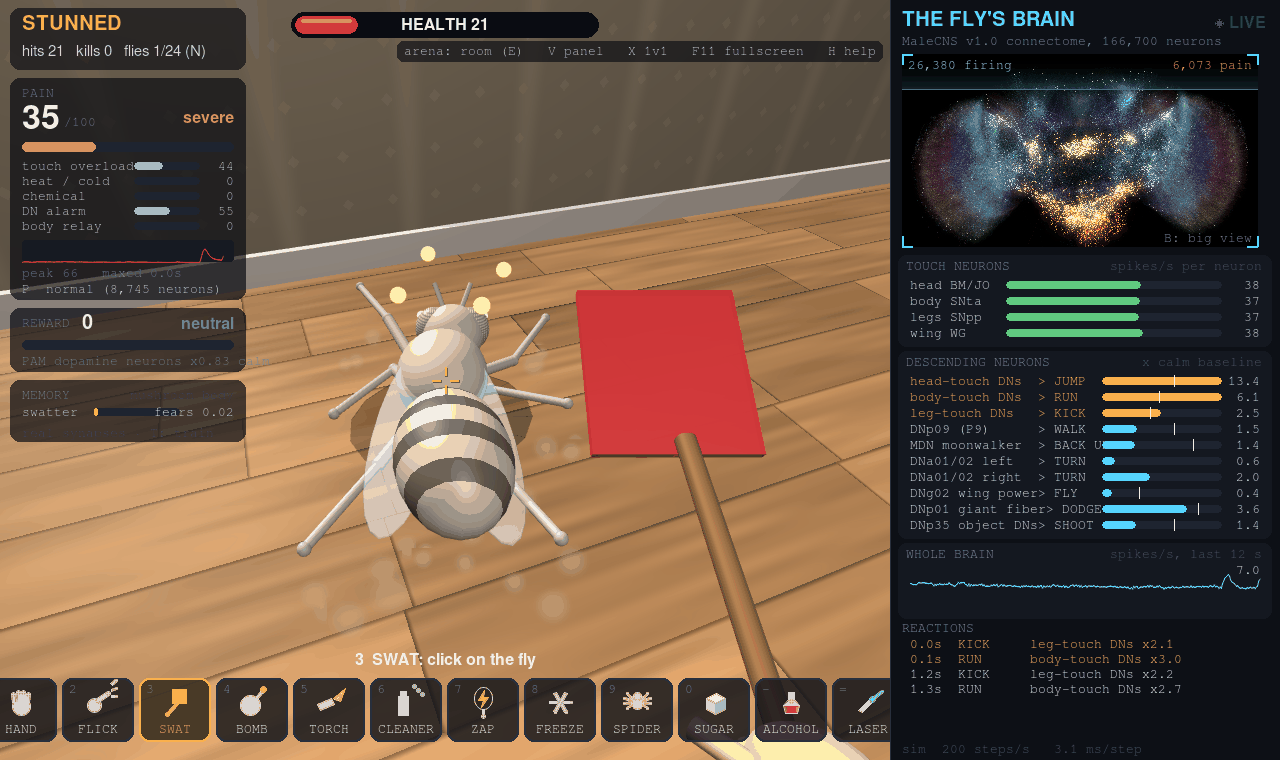
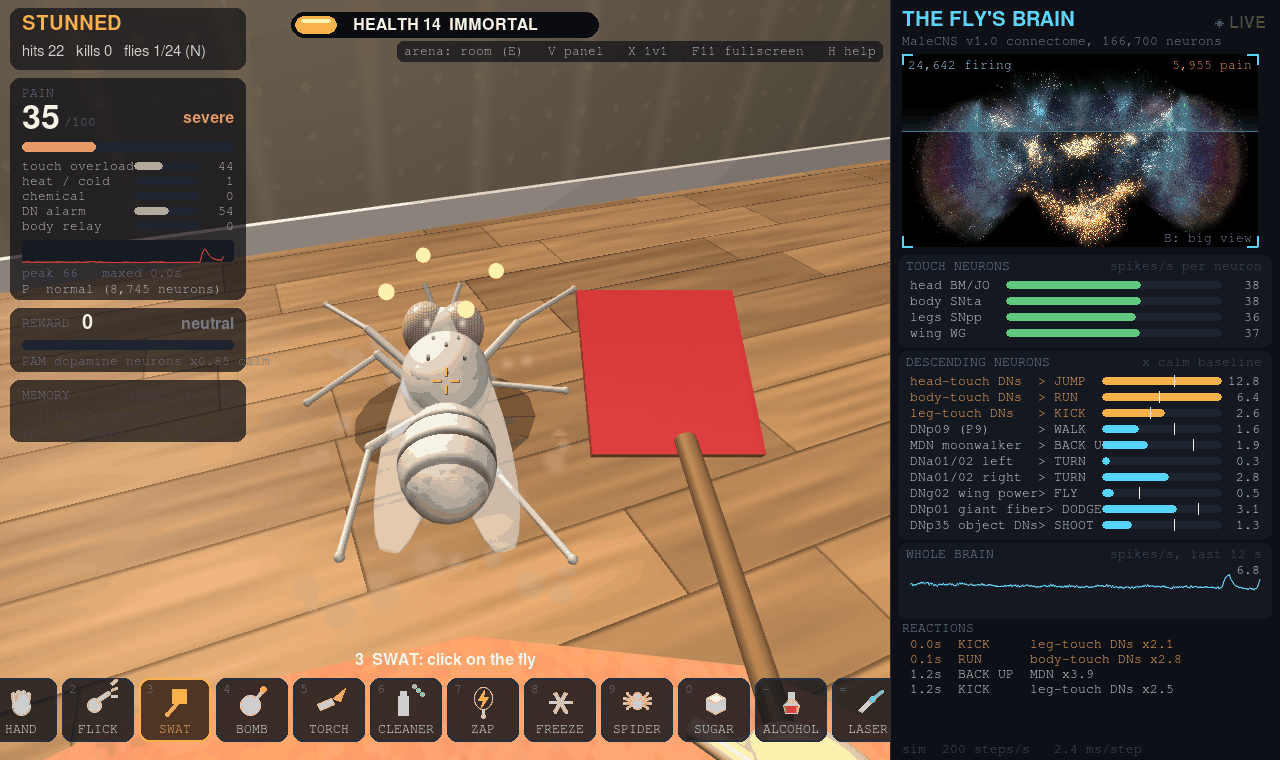
fix(3d): make the fly look like a fruit fly instead of a bee
Big red eyes filling most of the head, a pale yellow-tan body instead of honey gold, a shorter abdomen tapering to a
dark tip, bands only across the top of each segment (fading out underneath and at the tip) instead of wasp bands
wrapped right around, bristles, a scutellum, thinner legs and clearer wings. Drawing only: the simulation, physics and
hit detection are untouched.

Every README screenshot and the demo GIF regenerated; tools/make_screenshots.py gains a `portrait` scene for checking
the model close up, and leaves it (and the demo) out of the default set.

The orchard feeding test now seeds the random generators and puts the fly in a known state beside a ripe fruit: the
tests before it in that module run for a wall-clock duration, so the fly's state and the random stream shifted with
machine load and it failed about half the time in a full run.

diff --git a/kickthefly/game/kick3d.py b/kickthefly/game/kick3d.py
@@ -2337,20 +2337,27 @@ class Game3D(k2.Game):
         fa = p[THX] - p[ABD]
         fa = fa / (np.linalg.norm(fa) or 1)
         Ra = np.stack([fa, np.cross(side, fa), side], 1)
-        leg_col = col((86, 58, 26))
+        leg_col = col((132, 95, 50))
         for k in range(6):
             sgn = 1 if k < 3 else -1
             hip = p[THX] + fwd * (14 - 12 * (k % 3)) * S - up * 10 * S + side * sgn * 8 * S
-            rd.add("cylinder", segment(hip, p[KNEE[k]], 2.6 * S), leg_col)
-            rd.add("sphere", trs(p[KNEE[k]], None, (2.7 * S,) * 3), leg_col)
-            rd.add("cylinder", segment(p[KNEE[k]], p[FOOT[k]], 1.8 * S), leg_col)
-            rd.add("sphere", trs(p[FOOT[k]], None, (2.4 * S,) * 3), col((60, 40, 18)))
-        rd.add("sphere", trs(p[ABD], Ra, (30 * S * k_, 21 * S * k_, 21 * S * k_)), col((176, 116, 44)), P_STRIPES)
-        rd.add("sphere", trs(p[THX], Rb, (23 * S * k_, 19 * S * k_, 19 * S * k_)), col((156, 102, 40)))
-        rd.add("sphere", trs(p[HEAD], Rb, (15 * S * k_,) * 3), col((146, 96, 38)))
+            rd.add("cylinder", segment(hip, p[KNEE[k]], 2.0 * S), leg_col)
+            rd.add("sphere", trs(p[KNEE[k]], None, (2.1 * S,) * 3), leg_col)
+            rd.add("cylinder", segment(p[KNEE[k]], p[FOOT[k]], 1.3 * S), leg_col)
+            rd.add("sphere", trs(p[FOOT[k]], None, (1.8 * S,) * 3), col((96, 66, 32)))
+        # Drosophila melanogaster, not a bee: a pale yellow-tan body, a short abdomen tapering to a dark tip with
+        # bands only across the top of each segment (the shader's P_STRIPES), and eyes that fill most of the head.
+        abd_l, abd_r = 24 * S * k_, 17.5 * S * k_
+        rd.add("sphere", trs(p[ABD], Ra, (abd_l, abd_r, abd_r)), col((206, 172, 104)), P_STRIPES)
+        rd.add("sphere", trs(p[ABD] - fa * abd_l * 0.52, Ra, (abd_l * 0.42, abd_r * 0.78, abd_r * 0.78)),
+               col((96, 70, 38)))                                    # the tapered, dark tip
+        rd.add("sphere", trs(p[THX], Rb, (23 * S * k_, 19.5 * S * k_, 19 * S * k_)), col((176, 146, 92)))
+        rd.add("sphere", trs(p[THX] - fwd * 6 * S + up * 9 * S, Rb, (13 * S * k_, 7 * S * k_, 15 * S * k_)),
+               col((150, 120, 74)))                                  # the scutellum behind the wing bases
+        rd.add("sphere", trs(p[HEAD], Rb, (13 * S * k_, 14 * S * k_, 15 * S * k_)), col((186, 154, 96)))
         for sgn in (1, -1):
-            eye = p[HEAD] + fwd * 3 * S + up * 2 * S + side * sgn * 9 * S * k_
-            rd.add("sphere", trs(eye, Rb, (8 * S * k_, 11 * S * k_, 9 * S * k_)), col((196, 30, 26)), P_EYE)
+            eye = p[HEAD] + fwd * 1.5 * S + up * 2.5 * S + side * sgn * 8.5 * S * k_
+            rd.add("sphere", trs(eye, Rb, (12 * S * k_, 14 * S * k_, 11.5 * S * k_)), col((222, 44, 30)), P_EYE)
             if dead:
                 for a in (0.8, -0.8):
                     rd.add("cube", trs(eye + side * sgn * 8 * S, Rb @ rot_z(a), (18 * S, 3 * S, 3 * S)), (0.12, 0.08, 0.08))
@@ -2359,6 +2366,15 @@ class Game3D(k2.Game):
             a0 = p[HEAD] + fwd * 11 * S + up * 8 * S + side * sgn * 4 * S
             rd.add("cylinder", segment(a0, a0 + fwd * 10 * S + up * 10 * S + side * sgn * 5 * S, 1.2 * S), col((70, 45, 20)))
         rd.add("cylinder", segment(p[HEAD] + fwd * 8 * S - up * 10 * S, p[HEAD] + fwd * 14 * S - up * 20 * S, 1.8 * S), col((70, 45, 20)))
+        if not fly.wrapped:                     # bristles: a real fly is covered in them, a bee is furry instead
+            bristle = col((74, 52, 28))
+            for bx, by, bs, bl in ((-2, 15, 0, 7), (4, 15, 5, 6), (4, 15, -5, 6), (-8, 13, 7, 7), (-8, 13, -7, 7),
+                                   (-13, 9, 0, 8)):
+                root = p[THX] + fwd * bx * S + up * by * S + side * bs * S * k_
+                rd.add("cylinder", segment(root, root + (up * 0.8 - fwd * 0.6) * bl * S, 0.7 * S), bristle)
+            for sgn in (1, -1):
+                root = p[HEAD] + fwd * 4 * S + up * 9 * S + side * sgn * 4 * S * k_
+                rd.add("cylinder", segment(root, root + (up * 0.9 + fwd * 0.4) * 6 * S, 0.6 * S), bristle)
         flap = not dead and (now < fly.escape_until or (fly.grabbed is not None and random.random() < 0.3))
         for i, sgn in ((0, 1), (1, -1)):
             base = p[THX] + up * 12 * S + side * sgn * 5 * S
@@ -2366,8 +2382,8 @@ class Game3D(k2.Game):
             if flap:
                 tip = base + (tip - base) * 0.8 + up * 38 * S * math.sin(now * 90 + i) + side * sgn * 10 * S
             span = float(np.linalg.norm(tip - base))
-            rd.add("sphere", trs((base + tip) / 2, frame_from_x(tip - base), (span / 2 + 6 * S, 1.2 * S, 13 * S)),
-                   (0.82, 0.87, 0.95, 0.38 if not fly.melt else 0.2), P_NONE, 0.15)
+            rd.add("sphere", trs((base + tip) / 2, frame_from_x(tip - base), (span / 2 + 9 * S, 0.9 * S, 12 * S)),
+                   (0.90, 0.94, 0.99, 0.34 if not fly.melt else 0.18), P_NONE, 0.12)
         if self.duel and not dead and fly is self.fly:             # the blaster, strapped under its head (duelist only)
             muzzle, _ = self._muzzle()
             base = p[THX] + fwd * 10 * S - up * 4 * S

diff --git a/tools/make_screenshots.py b/tools/make_screenshots.py
@@ -1,6 +1,6 @@
 """Regenerate the README screenshots and the demo GIF from the current build, the same way every time.
 
-    python tools/make_screenshots.py                 every scene, into docs/
+    python tools/make_screenshots.py                 every README scene, into docs/ (not demo or portrait)
     python tools/make_screenshots.py duel orchard    only these scenes
     python tools/make_screenshots.py --list          the scenes and what each shows
     python tools/make_screenshots.py demo            the README's animated demo (docs/demo.gif), via the video recorder
@@ -116,7 +116,8 @@ scene("room3d", "The 3D room: first person, with the fly's live brain on the rig
       every=near(1.5, bearing=math.pi / 2 + 0.5, height=1.25), shot_at=5.0)
 
 scene("swat3d", "Swatting in first person: the touch neurons fire and the leg-touch descending neurons kick",
-      steps=[(3.0, lambda g: hold(g, "swatter")), (5.0, lambda g: fire(g)), (6.2, lambda g: fire(g))],
+      steps=[(0.0, lambda g: g.set_setting("brain.immortal", True, save=False)),
+             (3.0, lambda g: hold(g, "swatter")), (5.0, lambda g: fire(g)), (6.2, lambda g: fire(g))],
       every=near(1.05, bearing=math.pi / 2 + 0.35, height=1.0), shot_at=6.45)
 
 scene("flypaper3d", "Stuck on flypaper: it struggles through its own touch and descending neurons",
@@ -284,6 +285,11 @@ scene("escaperoom", "The escape room: fan, flypaper and a hot lamp between the f
       every=lambda g, t: look_at(g, fly_pos(g), 2.2, math.pi / 2 + 0.3, 1.6), shot_at=8.0)
 
 
+scene("portrait", "Close-up of the fly model itself (not used in the README; for checking the model after a change)",
+      steps=[(0.0, lambda g: g.set_setting("brain.immortal", True, save=False))],
+      every=lambda g, t: look_at(g, fly_pos(g), 0.8, math.pi / 2 + 2.6, 0.42), shot_at=6.0)
+
+
 def _demo_every(game, t):
     """~12 s in the open field: walk up, swat it, torch it, and watch it take off, with the brain panel lighting up."""
     fp = fly_pos(game)
@@ -397,7 +403,7 @@ def main() -> int:
         for s in SCENES.values():
             print(f"{s.name:12s} {s.caption}")
         return 0
-    names = args.scenes or [n for n in SCENES if n != "demo"]
+    names = args.scenes or [n for n in SCENES if n not in ("demo", "portrait")]
     bad = [n for n in names if n not in SCENES]
     if bad:
         ap.error(f"unknown scene(s): {', '.join(bad)} (see --list)")

diff --git a/kickthefly/game/render3d.py b/kickthefly/game/render3d.py
@@ -237,15 +237,23 @@ void main() {
         base = mix(base, base * vec3(1.3, 1.1, 0.8), ring * 0.45);
         base *= 0.85 + 0.15 * noise(v_world.xz * 60.0);
         spec_k = 0.02;
-    } else if (v_pattern == 4) {          // abdomen bands along local x
-        float band = step(0.55, fract(v_local.x * 2.2 + 0.2));
-        base = mix(base, base * 0.42, band);
-        spec_k = 0.5; shin = 40.0;
-    } else if (v_pattern == 5) {          // compound eye facets
-        vec2 q = v_local.yz * 9.0;
+    } else if (v_pattern == 4) {          // abdomen: a dark band at the back of each tergite, on top only
+        float seg = fract(v_local.x * 2.4 + 0.5);            // local +x points at the thorax, so -x is the tip
+        // a wide, soft edge: a hard one follows the sphere's facets and breaks into zigzags up close
+        float band = smoothstep(0.42, 0.04, seg);
+        float dorsal = smoothstep(-0.12, 0.40, v_local.y);   // the underside stays pale, as on a real fly
+        float rear = (0.4 + 0.6 * smoothstep(0.75, -0.05, v_local.x))   // darker toward the tip, and gone at the
+                   * smoothstep(-0.92, -0.45, v_local.x);               // tip itself, where the dark tip takes over
+        base = mix(base, base * 0.30, band * dorsal * rear);
+        base = mix(base, base * vec3(1.10, 1.06, 0.82), (1.0 - dorsal) * 0.45);
+        base *= 0.94 + 0.06 * noise(v_local.xy * 40.0);
+        spec_k = 0.18; shin = 18.0;
+    } else if (v_pattern == 5) {          // compound eye: fine facets, brightest where it catches the light
+        vec2 q = v_local.yz * 15.0;
         float fac = length(fract(q) - 0.5);
-        base *= 0.75 + 0.35 * smoothstep(0.5, 0.2, fac);
-        spec_k = 0.9; shin = 70.0;
+        base *= 0.80 + 0.30 * smoothstep(0.5, 0.15, fac);
+        base *= 1.0 - 0.25 * smoothstep(0.2, 1.0, -v_local.x);
+        spec_k = 1.1; shin = 90.0;
     } else if (v_pattern == 6) {          // glossy flypaper with specks
         base *= 0.9 + 0.1 * noise(v_world.xz * 30.0);
         base *= 1.0 - 0.35 * step(0.93, hash(floor(v_world.xz * 40.0)));

diff --git a/tests/test_outdoors.py b/tests/test_outdoors.py
@@ -248,15 +248,31 @@ def test_a_fly_that_leaves_is_lost_and_can_be_recalled(game3d):
 
 @needs_pack
 def test_orchard_feeding_drives_the_real_reward_neurons(game3d):
+    import random
+
     from kickthefly.game import kick3d
 
+    # Earlier tests in this module run the game for a wall-clock duration, so both the random stream and where they
+    # leave the fly depend on the machine's speed. Seed the generators and put the fly in a known state next to a
+    # ripe fruit, or this passes or fails with the load.
+    random.seed(17)
+    np.random.seed(17)
     game3d.set_setting("brain.arena", "orchard", save=False)
     assert game3d.orchard is not None and kick3d.COLLIDERS, "trees are obstacles"
     slot, br = game3d.flies[0], game3d.brain
+    fly = slot.fly
+    fly.wet = fly.frost = fly.melt = fly.venom = fly.char = fly.soak = 0.0
+    fly.stuck.clear()
+    fly.escape_until = fly.stun_until = fly.walk_until = 0.0
+    fly.health, fly.dead_at, fly.perch = kick3d.MAX_HEALTH, None, None
+    slot.lost, slot.fruit, slot.landed = False, None, False
+    slot.fruit_ready = 0.0
+    ripe = next(f for f in game3d.orchard.fruit if f.ripe)
+    game3d._move_fly(fly, (float(ripe.pos[0]) + 0.4, float(ripe.pos[2]) + 0.4))
     pam = br.sense[("reward", None)]
     fed = False
     before = after = None
-    for _ in range(90):
+    for _ in range(180):                                     # 90 s of game time: it has to find a fruit and land
         was = getattr(slot, "landed", False)
         spikes = 0
         steps = 0
@@ -273,7 +289,7 @@ def test_orchard_feeding_drives_the_real_reward_neurons(game3d):
             fed = True
             break
         before = rate if before is None else 0.8 * before + 0.2 * rate
-    assert fed, "the fly never landed on a fruit in 45 s of game time"
+    assert fed, "the fly never landed on a fruit in 90 s of game time"
     assert after > 1.5 * before, f"feeding should drive PAM like sugar does ({before:.1f} -> {after:.1f} Hz)"
     assert slot.fruit is not None and slot.fruit.eater is slot
 

diff --git a/kickthefly/core/version.py b/kickthefly/core/version.py
@@ -1,2 +1,2 @@
 """The app version, shown in the pause menu, crash reports, save states, exports and the exe's file properties."""
-__version__ = "2.8.0"
+__version__ = "2.8.1"

diff --git a/RELEASE_NOTES.md b/RELEASE_NOTES.md
@@ -1,66 +1,30 @@
-# Kick the Fly 2.8.0: bigger swarms, a faster simulation, real neuron shapes and video recording
+# Kick the Fly 2.8.1: it finally looks like a fruit fly
 
 Downloads: **KickTheFly.exe** (Windows) and **KickTheFly-x86_64.AppImage** (Linux). Check them against `SHA256SUMS`.
-Your saves, settings and your fly's training memory carry over.
+Your saves, settings and your fly's training memory carry over. Everything in
+[2.8.0](https://github.com/legendarylolo318-cloud/kick-the-fly/releases/tag/v2.8.0) (bigger swarms, the faster Numba
+and PyTorch backends, real neuron shapes, video recording) is in this build too.
 
 ## For players
 
-- **Bigger swarms.** Press **N** for more flies, each running its own full 166,700-neuron brain. How many you can have
-  now depends on how the simulation runs: up to 16 flies in the exe and AppImage (as before), and from source with Numba installed, one per CPU core up to 32 (24 on a 24-core PC). Each fly needs about 350 MB of free memory, and N tells you when there isn't enough. Press **F** to choose which fly the brain panel, surgery and
-  training follow.
-- **A faster simulation, from source.** If you run the game from source and install Numba (`pip install numba`), the
-  brains run on compiled code that lets several flies think at the same time: 16 flies keep real time where plain NumPy manages 0.87x, and 32 run about twice as fast. In the game itself the drawing shares the work, so a big swarm still falls behind real time. PyTorch can run them on an
-  NVIDIA or AMD graphics card (untested so far, see below). The exe and AppImage still use the standard engine, which
-  hasn't changed speed. Your fly behaves exactly the same on every engine except the GPU ones.
-- **Real neuron shapes.** Ten neurons in the brain view (the two giant fibers that trigger the escape jump, the two
-  DNa02 steering neurons, and six from the learning centre) are now drawn from their real shapes, reconstructed from
-  electron microscopy and downloaded from Janelia's neuPrint the first time you play online. Everything else is still
-  an estimated fiber, and the view tells you which you're seeing.
-- **Video recording.** **Shift+R** records a video of any length and Shift+R stops it: an MP4 if ffmpeg is installed,
-  otherwise a GIF of up to a minute. It plays back at real speed, and it goes to your screenshots folder.
-- **Fixes:** the fly's state (FLYING, STUCK ON FLYPAPER...) is back at the top left, the big brain view's buttons no
-  longer draw over each other, and plain R resets the fly again while you're recording.
-- **New screenshots** of everything in the game, including the open field, the orchard and the escape room.
+The fly looked like a bee: honey-gold, with wasp stripes wrapped all the way around a big round abdomen, and small
+eyes. Side by side with a photo of a real *Drosophila melanogaster*, it was the wrong animal. It now has:
+
+- **The eyes.** About three times the area, bright red, filling most of the head, the way a real fruit fly's do. This is
+  the feature everyone recognises, and it was the most understated.
+- **A fruit fly's colours:** a pale yellow-tan body with a faint grey cast, instead of honey gold.
+- **A fruit fly's abdomen:** shorter, tapering to a dark tip, with dark bands only across the **top** of each segment,
+  fading out on the underside and at the tip, instead of solid bands right around it.
+- **Bristles** on the thorax and head, thinner and paler legs, clearer and longer wings, and the small scutellum behind
+  the wing bases.
+
+Only the drawing changed. The simulation, the physics, what each tool does and where a hit lands are all untouched, so
+every number in the README still holds.
 
 ## For researchers
 
-- **Backend selection.** `--backend auto|cpu|numba|torch-cpu|torch-cuda|torch-rocm` (headless too, including
-  `--validate`, whose worker processes inherit it), or Settings > Brain > Compute backend. `auto` prefers a GPU, then
-  Numba, then NumPy; a backend that can't start falls back to NumPy and logs why. `--dtype float32|float64` sets the
-  state precision (float32 default). Numba and PyTorch are optional source dependencies; the exe and AppImage include
-  neither and don't load one you've installed.
-- **Determinism guarantees and tolerances.**
-  - `numba` and `torch-cpu` are **bit-exact** with the NumPy reference: same float operations, same order, same
-    precision. `tests/test_backends.py` compares every spike, membrane potential and the adaptive gain over 1000 steps
-    (5 s of brain time) in float32 and float64. The full validation suite (seeds 1000-1009) gives identical numbers on
-    `cpu`, `numba` and `torch-cpu`, and matches the table in the README.
-  - GPU backends are **not** bit-exact: a GPU sparse product may add a neuron's inputs in a different order, the last
-    bit of a float32 sum then differs, and the network is chaotic, so individual spikes diverge within a few hundred
-    steps. Their tolerance is statistical: brain-wide firing within 2% of NumPy's and per-population rates correlated at
-    r > 0.95 over 1000 steps. That test exists but has **not yet run on a GPU** (below).
-  - Every result records the backend and device that actually ran: validation JSON, benchmark JSON, exports and NWB
-    files, save states and crash reports.
-- **Benchmark reporting.** `--benchmark --backend NAME --flies 1 8 16 32 --seconds 5` reports paced and uncapped
-  steps/s, sim/real ratio, neuron updates/s, synaptic events/s (measured spikes x the connectome's mean out-degree; it
-  used to be an estimate from an assumed activity level) and resident memory, with the backend and device that ran.
-  Measured (Core Ultra 7 270K Plus, 24 cores, Python 3.14; uncapped multiple of real time per brain): 1 brain 4.17x on NumPy vs 4.76x on Numba; 8 brains 2.21x vs 3.11x; 16 brains 0.91x vs 1.83x; 32 brains 0.38x vs 0.79x. `torch-cpu` 0.83x at 1 brain (it multiplies the whole matrix every step). Memory 310-390 MB per brain. Full tables and in-game numbers in the README's Performance section.
-- **Citable.** `CITATION.cff` describes how to cite Kick the Fly and the MaleCNS v1.0 connectome it simulates (GitHub's
-  "Cite this repository" button uses it). There's no DOI yet.
-
-## What was tested on real hardware, and what wasn't
-
-| | ran on real hardware? |
-|---|---|
-| `cpu` (NumPy) | Yes: Linux dev machine (Intel Core Ultra 7 270K Plus), and CI on Ubuntu 22.04 and Windows (full test and validation suite), which is also what the exe and AppImage run |
-| `numba` | Yes, on the Linux dev machine only: bit-exactness tests, full validation suite, benchmarks, the 3D game with up to 23 flies. Not on Windows or macOS |
-| `torch-cpu` | Yes, on the Linux dev machine only (PyTorch 2.14 CPU build): bit-exactness tests, full validation suite, benchmarks |
-| `torch-cuda` | **No.** No NVIDIA GPU was available. The code path is the same as `torch-cpu` with a different device, but it has never run on a GPU |
-| `torch-rocm` | **No.** The dev machine has an AMD Radeon RX 9070 XT, but no ROCm build of PyTorch was installed, so it wasn't run. Same caveat |
-
-The GPU fly cap (32) and the GPU tolerance test in `tests/test_backends.py` are therefore untested. If you run a GPU backend, `python -m pytest tests/test_backends.py` and `--benchmark --backend torch-cuda` (or `torch-rocm`) will tell you whether it holds; reports welcome. The exe and AppImage were built and smoke-tested by CI (headless protocol run); the 3D game in the AppImage was not re-tested by hand for this release.
-
-## Building from source
-
-Nothing changed in how the brain pack is built. For the optional backends see README > Run from source > Optional:
-faster simulation with Numba or PyTorch. `tools/make_screenshots.py` regenerates every README image, and
-`tools/profile_sim.py` shows where a simulation step's time goes.
+Nothing in the model, the connectome or the Lab tools changed in this release: the brain-view fibers and skeletons, the
+backends, determinism and validation results are all exactly as in 2.8.0. The change is in `kickthefly/game/kick3d.py`
+(`_draw_fly`) and the abdomen and eye patterns in `kickthefly/game/render3d.py`. Every README screenshot and the demo
+GIF were regenerated from this build with `tools/make_screenshots.py`, which grew a `portrait` scene for checking the
+model close up after a change.

diff --git a/CHANGELOG.md b/CHANGELOG.md
@@ -1,5 +1,18 @@
 # Changelog
 
+## 2.8.1 (2026-09-19)
+
+### Changed
+- **The fly looks like a fruit fly, not a bee.** It was a honey-gold body with wasp bands wrapped all the way around a
+  round abdomen, and small eyes. Now: eyes about three times the area and bright red, filling most of the head as a real
+  *Drosophila*'s do; a pale yellow-tan body instead of honey gold; a shorter abdomen tapering to a dark tip; dark bands
+  only across the top of each segment, fading out underneath and at the tip, instead of wrapping right around; thinner,
+  paler legs; clearer, longer wings; bristles on the thorax and head; and a scutellum behind the wing bases. Only the
+  drawing changed; the simulation, physics and hit detection are untouched.
+- Every README screenshot and the demo GIF regenerated with the new model.
+- The orchard feeding test seeds the random generators itself: earlier tests in its module run for a wall-clock
+  duration, so the fly's choice of fruit shifted with machine load and the test failed about half the time.
+
 ## 2.8.0 (2026-09-19)
 
 ### Added

diff --git a/README.md b/README.md
@@ -92,9 +92,9 @@ All from the current build at 1280x760, made by `tools/make_screenshots.py` (see
 
 ![a spider wrapping the fly in silk](docs/spider.png)
 
-**1v1 duel (X).** The fly aims with its LC10 -> DNa02 steering pathway and fires when its DNp35 object neurons do; each hit fires its reward dopamine neurons, so it learns to like hunting you. Here it has just won the round: 12 hits from 12 shots, and its mushroom body now likes you 0.85.
+**1v1 duel (X).** The fly aims with its LC10 -> DNa02 steering pathway and fires when its DNp35 object neurons do. Here it has hit you 6 times out of 7 shots; every hit fires its reward dopamine neurons, so its REWARD meter reads bliss and its mushroom body now likes you 0.49.
 
-![the fly has won the 1v1 duel: YOU DIED](docs/duel.png)
+![the fly shooting at you in the 1v1 duel, its reward meter at bliss](docs/duel.png)
 
 **Training (T).** Ten shock pairings with the swatter's smell weaken its real Kenyon cell -> MBON synapses; the curve is its fear after each trial.
 

diff --git a/CONTRIBUTING.md b/CONTRIBUTING.md
@@ -76,6 +76,7 @@ python kick_the_fly.py --headless --validate --out data/validation_results.json 
 python tools/make_screenshots.py              # every screenshot into docs/ (about 5 minutes)
 python tools/make_screenshots.py lamp duel    # just some of them; --list shows them all
 python tools/make_screenshots.py demo         # docs/demo.gif, recorded with the in-game video recorder
+python tools/make_screenshots.py portrait --out /tmp    # a close-up of the fly model, for checking it after a change
 ```
 
 Each scene is a short script (seed 7, a fixed arena, camera and inputs) that runs inside the real game loop through
